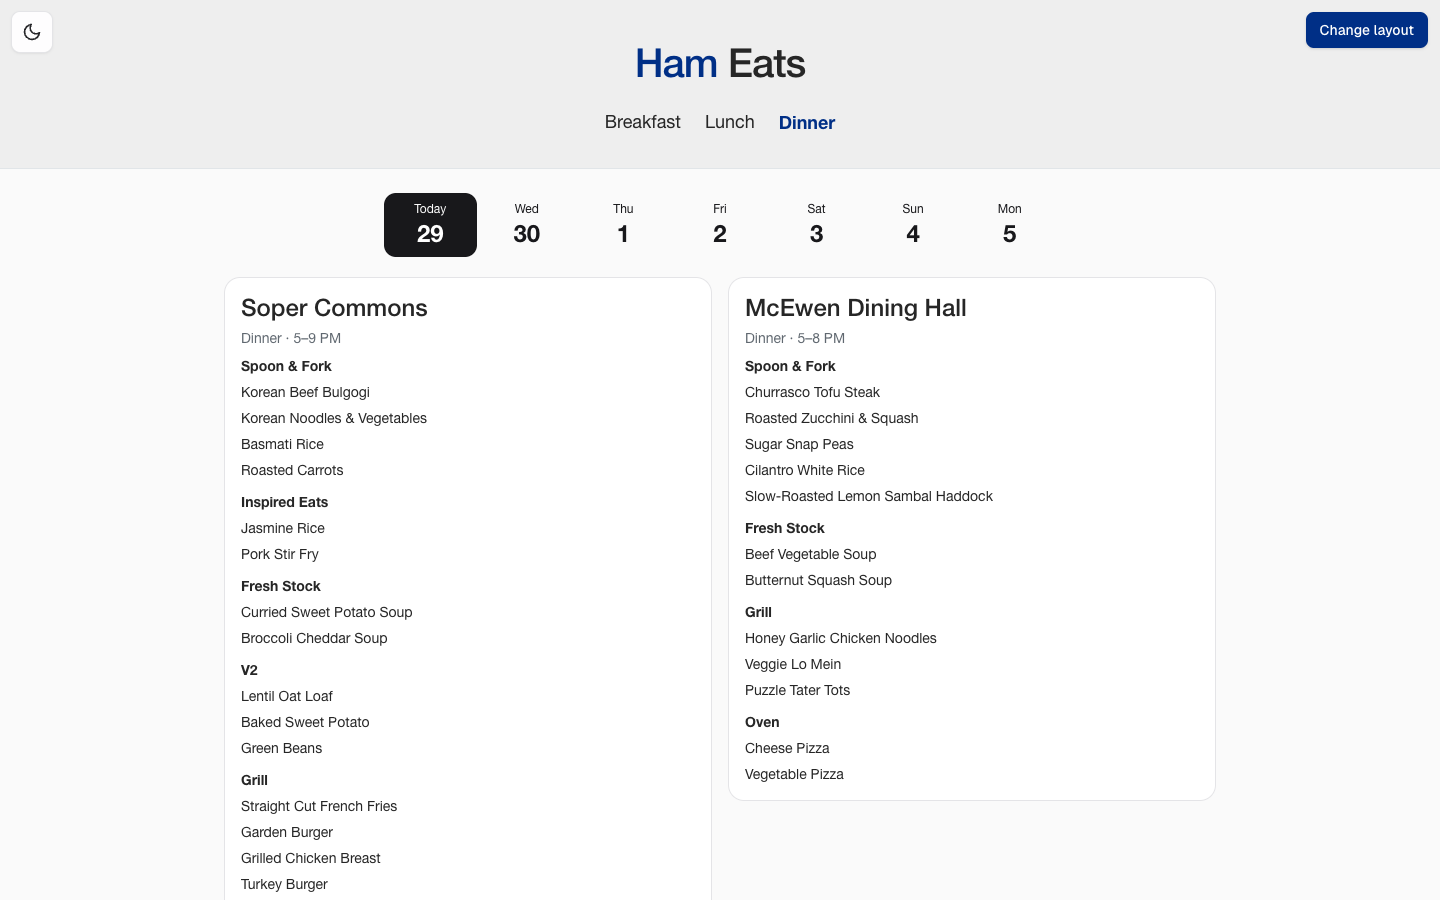
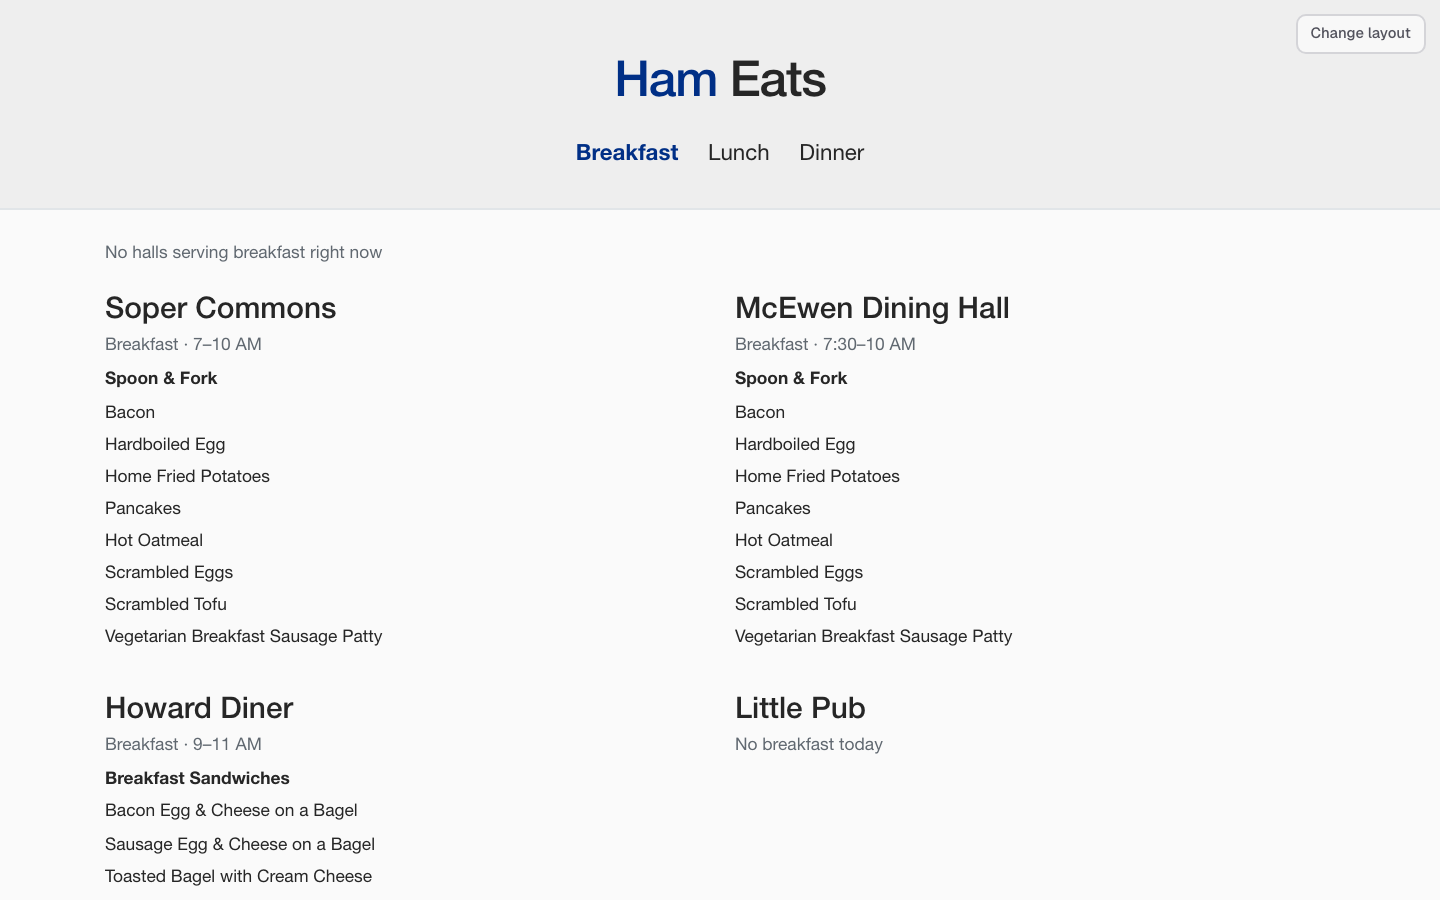
Comparison: back to the original double-column design
All four halls in flat columns, two across on phones and four on wide screens, with tappable items
that open the item sheet. Keeps the shared MealHeader, the removed "halls serving" line and the
comparison_day_picked event name. Restores the matching gallery description and preview.

diff --git a/web/components/home/MealFirstHomeLayout.tsx b/web/components/home/MealFirstHomeLayout.tsx
@@ -1,11 +1,12 @@
 "use client";
 
-import { useMemo, useState } from "react";
+import { useCallback, useEffect, useMemo, useState } from "react";
 import { HALLS, orderedStations, type Hall } from "@/lib/halls";
-import { compactRange, dowOf, mealNow, statusAt } from "@/lib/hours";
+import { compactRange, dowOf, mealNow, statusAt, type CampusTime } from "@/lib/hours";
 import type { HomeLayoutProps } from "@/lib/homeLayouts";
-import { type Meal, type MenuItem } from "@/lib/types";
+import { type Meal, type MenuData, type MenuItem } from "@/lib/types";
 import { DayPicker } from "@/components/DayPicker";
+import { ItemSheet } from "@/components/ItemSheet";
 import { MealHeader } from "@/components/home/MealHeader";
 import { track } from "@/lib/analytics";
 
@@ -13,8 +14,8 @@ import { track } from "@/lib/analytics";
  * An alternative home layout, browsed meal-first — a close visual match of
  * Princeton's TigerMenus (https://menus.tigerapps.org/): its grey jumbotron
  * header, plain-text Breakfast/Lunch/Dinner nav, Bootstrap link-blue accent
- * (#337ab7), bold station headings and plain-line dishes (nothing to tap), with
- * each hall in a card and the two cards' station headings kept level. TigerMenus is light-only; dark mode
+ * (#337ab7), and flat, borderless hall columns with bold station headings
+ * and plain-line dishes, no card chrome. TigerMenus is light-only; dark mode
  * here follows this app's existing zinc palette at the same hierarchy.
  * Layered on top: a live "serving now" indicator, which a static site can't have.
  */
@@ -24,6 +25,29 @@ import { track } from "@/lib/analytics";
 const SITE_FONT = '"Helvetica Neue", Helvetica, Arial, sans-serif';
 const LINK_BLUE = "text-accent";
 
+type Selected = { item: MenuItem; context: string };
+
+/** Same back-button-closes-the-sheet behavior as the main home layout. */
+function useItemSheet() {
+  const [selected, setSelected] = useState<Selected | null>(null);
+  useEffect(() => {
+    const onPop = () => setSelected(null);
+    window.addEventListener("popstate", onPop);
+    return () => window.removeEventListener("popstate", onPop);
+  }, []);
+  const open = useCallback((s: Selected) => {
+    history.pushState({ itemSheet: true }, "");
+    setSelected(s);
+    track("item_opened", { item: s.item.name, context: s.context });
+  }, []);
+  const close = useCallback(() => {
+    if (history.state?.itemSheet) history.back();
+    else setSelected(null);
+  }, []);
+  const sheet = selected && <ItemSheet item={selected.item} context={selected.context} onClose={close} />;
+  return { open, sheet };
+}
+
 /** Fallback meal for the day when nothing is currently open anywhere: go by time of day. */
 function mealByClock(minutes: number): Meal {
   if (minutes < 10 * 60 + 30) return "Breakfast";
@@ -31,86 +55,84 @@ function mealByClock(minutes: number): Meal {
   return "Dinner";
 }
 
-/** The two main dining halls, side by side; the Diner and Little Pub are left out of this layout. */
-const COMPARED_HALLS = HALLS.filter((h) => h.slug === "commons" || h.slug === "mcewen");
-
 /** This hall's first service window for `meal` on weekday `dow`, or undefined if it doesn't serve it. */
 function windowFor(hall: Hall, dow: number, meal: Meal) {
   return hall.hours[dow].find((p) => p.meal === meal);
 }
 
-/**
- * Station order in this layout, per hall. Stations a hall serves that aren't listed follow, in the
- * menu's own order.
- */
-const STATION_ORDER: Record<string, string[]> = {
-  commons: ["Spoon & Fork", "Inspired Eats", "Fresh Stock", "V2", "Grill", "Bravo", "Oven"],
-  mcewen: ["Spoon & Fork", "Grill", "Fresh Stock", "Oven"],
-};
-
-// Nutrislice tends to list a station's main dish last ("Herb Roasted Fingerling Potato", then "Peach
-// Balsamic Chicken"); this moves meat and fish mains to the top. Everything else keeps its order.
-const MAIN_DISH = /\b(chicken|beef|pork|steak|turkey|ham|bacon|sausage|brisket|meatballs?|lamb|salmon|cod|haddock|tilapia|pollock|fish|shrimp|tuna)\b/i;
-const mainsFirst = (items: MenuItem[]) =>
-  [...items].sort((a, b) => Number(MAIN_DISH.test(b.name)) - Number(MAIN_DISH.test(a.name)));
-
-type Column = {
+function HallColumn({
+  hall,
+  meal,
+  date,
+  now,
+  data,
+  onSelect,
+}: {
   hall: Hall;
-  win: ReturnType<typeof windowFor>;
-  servingNow: boolean | undefined;
-  stations: [string, MenuItem[]][];
-};
+  meal: Meal;
+  date: string;
+  now: CampusTime;
+  data: MenuData;
+  onSelect: (s: Selected) => void;
+}) {
+  const isToday = date === now.iso;
+  const win = windowFor(hall, dowOf(date), meal);
+  const servingNow = isToday && win && mealNow(hall.hours, now) === meal && statusAt(hall.hours, now).open;
+  const mealMenu = data.dates[date]?.[hall.name]?.[meal];
+  const stations = orderedStations(mealMenu, hall.stationOrder);
 
-/** A hall's name, "Open now" and meal hours: the first row of its card. */
-function HallHeading({ column: { hall, win, servingNow }, meal, isToday }: { column: Column; meal: Meal; isToday: boolean }) {
   return (
-    <div className="space-y-2 pb-3">
+    <section className="space-y-2">
       {/* 24px/500, matching TigerMenus' .dining-hall h2 */}
       <h2 className="text-[24px] font-medium leading-[1.1] text-[#262626] dark:text-zinc-100">{hall.name}</h2>
+
       {servingNow && <p className={`text-sm font-semibold ${LINK_BLUE}`}>● Open now</p>}
-      <p className="text-sm text-[#606870] dark:text-zinc-400">
-        {win ? `${meal} · ${compactRange(win.open, win.close)}` : `No ${meal.toLowerCase()} ${isToday ? "today" : "this day"}`}
-      </p>
-    </div>
+
+      {win ? (
+        <p className="text-sm text-[#606870] dark:text-zinc-400">
+          {meal} · {compactRange(win.open, win.close)}
+        </p>
+      ) : (
+        <p className="text-sm text-[#606870] dark:text-zinc-400">
+          No {meal.toLowerCase()} {isToday ? "today" : "this day"}
+        </p>
+      )}
+
+      {stations.length > 0 ? (
+        <div className="space-y-3">
+          {stations.map(([station, items]) => (
+            <div key={station}>
+              {/* Bold, inherits body size — matches .menu-station */}
+              <h3 className="mb-1.5 text-sm font-bold text-[#262626] dark:text-zinc-200">{station}</h3>
+              <div className="space-y-1.5">
+                {items.map((it) => (
+                  <button
+                    key={it.name}
+                    onClick={() => onSelect({ item: it, context: `${hall.name} · ${station} · ${meal}` })}
+                    className="block text-left text-sm text-[#262626] hover:text-accent hover:underline dark:text-zinc-300 dark:hover:text-accent"
+                  >
+                    {it.name}
+                  </button>
+                ))}
+              </div>
+            </div>
+          ))}
+        </div>
+      ) : (
+        win && <p className="text-sm text-[#606870] dark:text-zinc-500">No menu posted yet</p>
+      )}
+    </section>
   );
 }
 
-/** One station: a bold heading and its dishes as plain text (nothing to tap). */
-function Station({ station }: { station: [string, MenuItem[]] | undefined }) {
-  if (!station) return <div />;
-  const [name, items] = station;
-  return (
-    <div className="pb-4">
-      <h3 className="mb-1.5 text-sm font-bold text-[#262626] dark:text-zinc-200">{name}</h3>
-      <ul className="space-y-1">
-        {items.map((it) => (
-          <li key={it.name} className="text-sm text-[#262626] dark:text-zinc-300">
-            {it.name}
-          </li>
-        ))}
-      </ul>
-    </div>
-  );
-}
-
-/** Comparison layout: Commons and McEwen side by side in cards, station headings level across both. */
+/** Comparison layout: two halls side by side on phones, four across on wide screens. */
 export function MealFirstHomeLayout({ data, now }: HomeLayoutProps) {
   const [meal, setMeal] = useState<Meal>(() => mealByClock(now.minutes));
   const dates = useMemo(() => Object.keys(data.dates).sort(), [data]);
   const [pickedDate, setPickedDate] = useState<string | null>(null);
   const date = pickedDate && dates.includes(pickedDate) ? pickedDate : now.iso;
-  const isToday = date === now.iso;
+  const { open, sheet } = useItemSheet();
 
-  const columns: Column[] = COMPARED_HALLS.map((hall) => {
-    const win = windowFor(hall, dowOf(date), meal);
-    const stations = orderedStations(data.dates[date]?.[hall.name]?.[meal], STATION_ORDER[hall.slug]).map(
-      ([name, items]) => [name, mainsFirst(items)] as [string, MenuItem[]],
-    );
-    return { hall, win, servingNow: isToday && win && mealNow(hall.hours, now) === meal && statusAt(hall.hours, now).open, stations };
-  });
-  // Row 1 is each hall's heading; then one row per station slot, so both halls' Nth station headings
-  // line up across the two cards. At least one slot, for the "No menu posted yet" note.
-  const slots = Math.max(1, ...columns.map((c) => c.stations.length));
 
   return (
     <div style={{ fontFamily: SITE_FONT }}>
@@ -129,27 +151,13 @@ export function MealFirstHomeLayout({ data, now }: HomeLayoutProps) {
           />
         </div>
 
-        <div className="grid grid-cols-2 gap-x-3 sm:gap-x-4">
-          {columns.map((c) => (
-            // Each card spans every row and shares them (subgrid), which is what keeps headings level.
-            <section
-              key={c.hall.slug}
-              style={{ gridRow: `span ${slots + 1}` }}
-              className="grid grid-rows-subgrid rounded-2xl border border-zinc-200 bg-white px-4 pt-4 dark:border-zinc-800 dark:bg-zinc-900"
-            >
-              <HallHeading column={c} meal={meal} isToday={isToday} />
-              {c.stations.length > 0
-                ? Array.from({ length: slots }, (_, i) => <Station key={i} station={c.stations[i]} />)
-                : [
-                    <p key="empty" className="pb-4 text-sm text-[#606870] dark:text-zinc-500">
-                      {c.win ? "No menu posted yet" : ""}
-                    </p>,
-                    ...Array.from({ length: slots - 1 }, (_, i) => <div key={i} />),
-                  ]}
-            </section>
+        <div className="grid grid-cols-2 gap-x-6 gap-y-8 lg:grid-cols-4">
+          {HALLS.map((h) => (
+            <HallColumn key={h.slug} hall={h} meal={meal} date={date} now={now} data={data} onSelect={open} />
           ))}
         </div>
       </main>
+      {sheet}
     </div>
   );
 }

diff --git a/web/lib/homeLayouts.tsx b/web/lib/homeLayouts.tsx
@@ -27,7 +27,7 @@ export const HOME_LAYOUTS: Record<HomeLayoutId, HomeLayoutEntry> = {
   },
   "meal-first": {
     label: "Comparison",
-    description: "Compare Commons and McEwen side by side for the same meal. Pick a day and Breakfast, Lunch, or Dinner, then tap any item for details.",
+    description: "Pick a day and Breakfast, Lunch, or Dinner, then browse the halls two side by side. You can tap any food item for more details.",
     Component: MealFirstHomeLayout,
     previewSrc: "/layout-previews/meal-first.png",
   },
